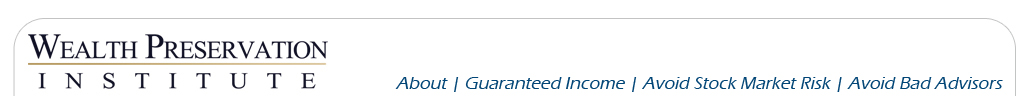
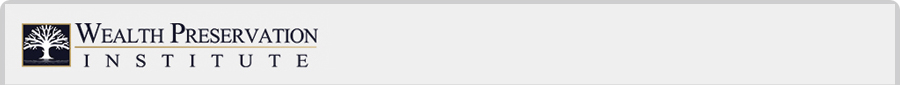
style fixes for temp2

Changed region(s): [[0.0, 0.0, 1.0, 1.0]]

diff --git a/2/avoidbadadvisors.html b/2/avoidbadadvisors.html
@@ -22,19 +22,18 @@
   <div class="container white-back page-wrapper">
 
     <div class="row">
-      <div class="col-sm-12 graphic" style="padding:0; margin-left:-12px;">
-        <img src="images/header.jpg" width="980" border="0" usemap="#Map">
+      <div class="col-sm-12 graphic" style="padding:0;"><img src="images/header_badadvisor.jpg" alt="header bad advisor" width="890" height="85" border="0" usemap="#Map">
         <map name="Map">
-          <area shape="rect" coords="444,68,601,87" href="guaranteedincome.html">
-          <area shape="rect" coords="610,68,801,86" href="avoidstockmarketrisk.html">
-          <area shape="rect" coords="808,68,966,86" href="avoidbadadvisors.html">
-          <area shape="rect" coords="379,67,429,85" href="about.html">
+          <area shape="rect" coords="353,52,399,71" href="about.html">
+          <area shape="rect" coords="418,53,560,69" href="guaranteedincome.html">
+          <area shape="rect" coords="577,52,728,70" href="avoidstockmarketrisk.html">
+          <area shape="rect" coords="741,52,844,69" href="avoidbadadvisors.html">
         </map>
       </div>
     </div>
 
     <div class="row side-border">
-      <div class="col-sm-12 side-border">
+      <div class="col-sm-12">
         <h1 style="margin:30px;">Bad Advisors</h1>
         <div class="red" style="font-size:26px;">Stop Wondering if You Have a Bad Advisor!</div>
         <div style="font-size:18px;margin-bottom:40px;">Learn from six-time author insider secrets the financial services industry don't want you to know.</div>
@@ -93,9 +92,7 @@
     </div>
 
     <div class="row">
-      <div class="col-sm-12 graphic" style="padding:0;margin-left:-12px;">
-        <img src="images/footer.jpg" width="980">
-      </div>  
+      <div class="col-sm-12 graphic" style="padding:0;"><img src="images/footer.jpg" width="890" height="30" alt="footer"></div>  
     </div>
 
     <div class="row">

diff --git a/2/index.html b/2/index.html
@@ -21,15 +21,7 @@
   <div class="container white-back page-wrapper">
 
     <div class="row">
-      <div class="col-sm-12 graphic" style="padding:0; margin-left:-12px;">
-        <img src="images/header.jpg" width="980" border="0" usemap="#Map">
-        <map name="Map">
-          <area shape="rect" coords="443,68,600,87" href="guaranteedincome.html">
-          <area shape="rect" coords="614,69,805,87" href="avoidstockmarketrisk.html">
-          <area shape="rect" coords="808,69,966,87" href="avoidbadadvisors.html">
-          <area shape="rect" coords="383,68,433,86" href="about.html">
-        </map>
-      </div>
+      <div class="col-sm-12 graphic" style="padding:0;"><img src="images/header.jpg" width="890" height="85"></div>
     </div>
 
     <div class="row side-border">
@@ -38,7 +30,13 @@
       </div>  
 
       <div class="col-sm-6">
-        <div class='image-wrapper'><img src="images/main-books.png" width="443" height="310"></div>
+        <div class='image-wrapper'><img src="images/main-books.png" width="443" height="310" border="0" usemap="#Map">
+          <map name="Map">
+            <area shape="rect" coords="27,44,136,234" href="avoidbadadvisors.html">
+            <area shape="rect" coords="162,35,270,285" href="avoidstockmarketrisk.html">
+            <area shape="rect" coords="286,45,428,219" href="guaranteedincome.html">
+          </map>
+        </div>
         <h1 class="red" style="font-size:28px;">What will you learn when signing up?</h1>
         <div class="form-text">
           <ul>
@@ -98,9 +96,7 @@
     </div>
 
     <div class="row">
-      <div class="col-sm-12 graphic" style="padding:0;margin-left:-12px;">
-        <img src="images/footer.jpg" width="980" />
-      </div>  
+      <div class="col-sm-12 graphic" style="padding:0;"><img src="images/footer.jpg" width="890" height="30"></div>  
     </div>
 
     <div class="row">

diff --git a/2/avoidstockmarketrisk.html b/2/avoidstockmarketrisk.html
@@ -21,13 +21,12 @@
   <div class="container white-back page-wrapper">
 
     <div class="row">
-      <div class="col-sm-12 graphic" style="padding:0; margin-left:-12px;">
-        <img src="images/header.jpg" width="980" border="0" usemap="#Map">
+      <div class="col-sm-12 graphic" style="padding:0;"><img src="images/header_rwr.jpg" alt="header retire without risk" width="890" height="85" border="0" usemap="#Map">
         <map name="Map">
-          <area shape="rect" coords="443,68,600,87" href="guaranteedincome.html">
-          <area shape="rect" coords="610,70,801,88" href="avoidstockmarketrisk.html">
-          <area shape="rect" coords="808,70,966,88" href="avoidbadadvisors.html">
-          <area shape="rect" coords="379,68,429,86" href="about.html">
+          <area shape="rect" coords="351,52,401,70" href="about.html">
+          <area shape="rect" coords="419,53,559,69" href="guaranteedincome.html">
+          <area shape="rect" coords="580,53,726,71" href="avoidstockmarketrisk.html">
+          <area shape="rect" coords="742,51,842,69" href="avoidbadadvisors.html">
         </map>
       </div>
     </div>
@@ -89,9 +88,7 @@
     </div>
 
     <div class="row">
-      <div class="col-sm-12 graphic" style="padding:0;margin-left:-12px;">
-        <img src="images/footer.jpg" width="980">
-      </div>  
+      <div class="col-sm-12 graphic" style="padding:0;"><img src="images/footer.jpg" width="890" height="30" alt="footer"></div>  
     </div>
 
     <div class="row">

diff --git a/2/guaranteedincome.html b/2/guaranteedincome.html
@@ -22,13 +22,12 @@
   <div class="container white-back page-wrapper">
 
     <div class="row">
-      <div class="col-sm-12 graphic" style="padding:0; margin-left:-12px;">
-        <img src="images/header.jpg" width="980" border="0" usemap="#Map">
+      <div class="col-sm-12 graphic" style="padding:0;"><img src="images/header_pom.jpg" alt="header peace of mind planning" width="890" height="85" border="0" usemap="#Map">
         <map name="Map">
-          <area shape="rect" coords="443,68,600,87" href="guaranteedincome.html">
-          <area shape="rect" coords="609,70,800,88" href="avoidstockmarketrisk.html">
-          <area shape="rect" coords="809,70,967,88" href="avoidbadadvisors.html">
-          <area shape="rect" coords="378,67,428,85" href="about.html">
+          <area shape="rect" coords="350,52,400,72" href="about.html">
+          <area shape="rect" coords="420,53,562,69" href="guaranteedincome.html">
+          <area shape="rect" coords="581,52,728,71" href="avoidstockmarketrisk.html">
+          <area shape="rect" coords="744,52,842,69" href="avoidbadadvisors.html">
         </map>
       </div>
     </div>
@@ -93,9 +92,7 @@
 
 
     <div class="row">
-      <div class="col-sm-12 graphic" style="padding:0;margin-left:-12px;">
-        <img src="images/footer.jpg" width="980">
-      </div>  
+      <div class="col-sm-12 graphic" style="padding:0;"><img src="images/footer.jpg" width="890" height="30" alt="footer"></div>  
     </div>
 
     <div class="row">

diff --git a/2/about.html b/2/about.html
@@ -22,13 +22,12 @@
   <div class="container white-back page-wrapper">
 
     <div class="row">
-      <div class="col-sm-12 graphic" style="padding:0; margin-left:-12px;">
-        <img src="images/header.jpg" width="980" border="0" usemap="#Map">
+      <div class="col-sm-12 graphic" style="padding:0;"><img src="images/header_about.jpg" alt="about header" width="890" height="85" border="0" usemap="#Map">
         <map name="Map">
-          <area shape="rect" coords="445,67,602,86" href="guaranteedincome.html">
-          <area shape="rect" coords="610,69,801,87" href="avoidstockmarketrisk.html">
-          <area shape="rect" coords="806,68,964,86" href="avoidbadadvisors.html">
-          <area shape="rect" coords="380,69,430,87" href="about.html">
+          <area shape="rect" coords="350,52,400,70" href="about.html">
+          <area shape="rect" coords="415,51,560,70" href="guaranteedincome.html">
+          <area shape="rect" coords="579,54,726,69" href="avoidstockmarketrisk.html">
+          <area shape="rect" coords="744,53,843,72" href="avoidbadadvisors.html">
         </map>
       </div>
     </div>
@@ -69,9 +68,7 @@
     </div>
 
     <div class="row">
-      <div class="col-sm-12 graphic" style="padding:0;margin-left:-12px;">
-        <img src="images/footer.jpg" width="980">
-      </div>  
+      <div class="col-sm-12 graphic" style="padding:0;"><img src="images/footer.jpg" width="890" height="30" alt="footer"></div>  
     </div>
 
     <div class="row">

diff --git a/2/thanks.html b/2/thanks.html
@@ -22,15 +22,15 @@
   <div class="container white-back page-wrapper">
 
     <div class="row">
-      <div class="col-sm-12 graphic" style="padding:0; margin-left:-12px;">
-        <img src="images/header.jpg" width="980">
+      <div class="col-sm-12 graphic" style="padding:0;">
+        <img src="images/header.jpg" width="890">
       </div>
     </div>
 
     <div class="row">
       <div class="col-sm-12 side-border">
         <div class='image-wrapper'>
-          <img src="images/main-content.jpg">
+          <img src="images/main-content.jpg" width="850">
         </div>
       </div>
     </div>
@@ -45,8 +45,8 @@
     </div>
 
     <div class="row">
-      <div class="col-sm-12 graphic" style="padding:0;margin-left:-12px;">
-        <img src="images/footer.jpg" width="980"
+      <div class="col-sm-12 graphic" style="padding:0;">
+        <img src="images/footer.jpg" width="890"
       </div>  
     </div>
 

diff --git a/2/css/styles.css b/2/css/styles.css
@@ -35,7 +35,7 @@ h6, .h6 {
 
 @media (min-width: 1200px) {
   .container {
-    width: 970px;
+    width: 900px;
   }
 }
 
@@ -55,8 +55,8 @@ h6, .h6 {
 
 .side-border {
 	text-align: center;
-	border-left: 2px solid #e5e5e5;
-	border-right: 2px solid #e5e5e5;
+	border-left: 5px solid #ceced0;
+	border-right: 5px solid #ceced0;
 }
 
 .image-wrapper {
